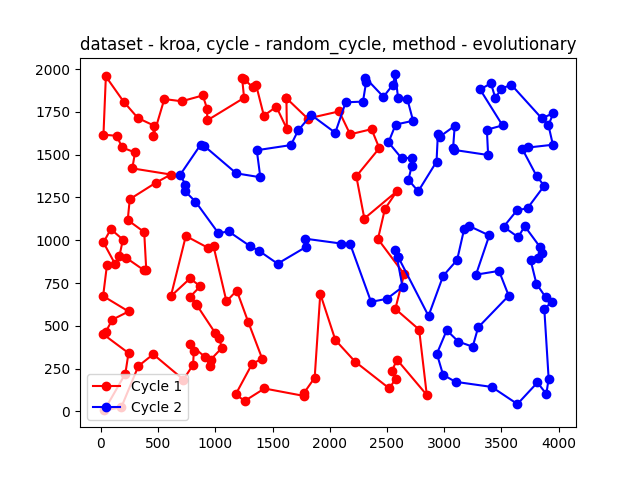
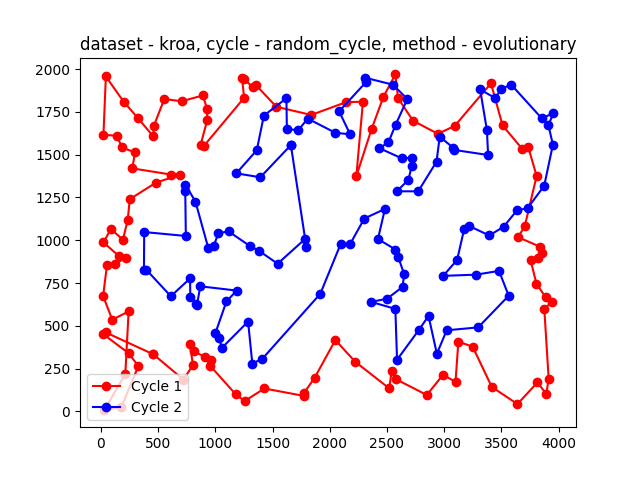
fixes

diff --git a/imo_5.py b/imo_5.py
@@ -158,11 +158,9 @@ def regret_fix(tours,unvisited):
     while len(unvisited) > 0:
         tour = tours[0] if len(tours[0]) < len(tours[1]) else tours[1]
         regrets = []
-        if len(unvisited) == 1:
-            regrets = [(0,unvisited[0])]
         if len(tour) == 0:
             start_idx = random.sample(unvisited, k= 1)
-            tour = [unvisited.pop(start_idx)]
+            tour = [unvisited.pop(start_idx[0])]
         if len(tour) == 1:
             nearest_to_first_1 = [cities[tour[0]][j] for j in unvisited]
             tour.append(unvisited.pop(np.argmin(nearest_to_first_1)))
@@ -170,25 +168,28 @@ def regret_fix(tours,unvisited):
             nearest_to_tour_1 = [cities[tour[0]][j] + cities[tour[1]][j] for j in unvisited]
             tour.append(unvisited.pop(np.argmin(nearest_to_tour_1)))
         else:
-            for city in unvisited:
-                distances = [cities[tour[i]][city] + cities[city][tour[i+1]] - cities[tour[i]][tour[i+1]] for i in range(len(tour)-1)]
-                distances.append(cities[tour[0]][city] + cities[city][tour[-1]] - cities[tour[-1]][tour[0]])
-                distances.sort()
-                regret = distances[1] - distances[0]
-                regret -= 0.37 * distances[0]
-                regrets.append((regret, city))
+            if len(unvisited) == 1:
+                regrets = [(0,unvisited[0])]
+            else:
+                for city in unvisited:
+                    distances = [cities[tour[i]][city] + cities[city][tour[i+1]] - cities[tour[i]][tour[i+1]] for i in range(len(tour)-1)]
+                    distances.append(cities[tour[0]][city] + cities[city][tour[-1]] - cities[tour[-1]][tour[0]])
+                    distances.sort()
+                    regret = distances[1] - distances[0]
+                    regret -= 0.37 * distances[0]
+                    regrets.append((regret, city))
             regrets.sort(reverse=True)
-        best_city = regrets[0][1]
-        tour_distances = [cities[tour[i]][tour[i+1]] for i in range(len(tour)-1)]
-        best_increase = float('inf')
-        best_index = -1
-        for i in range(len(tour_distances)):
-            increase = cities[best_city][tour[i]] + cities[best_city][tour[i+1]] - tour_distances[i]
-            if increase < best_increase:
-                best_increase = increase
-                best_index = i + 1
-        tour.insert(best_index, best_city)
-        unvisited.remove(best_city)
+            best_city = regrets[0][1]
+            tour_distances = [cities[tour[i]][tour[i+1]] for i in range(len(tour)-1)]
+            best_increase = float('inf')
+            best_index = -1
+            for i in range(len(tour_distances)):
+                increase = cities[best_city][tour[i]] + cities[best_city][tour[i+1]] - tour_distances[i]
+                if increase < best_increase:
+                    best_increase = increase
+                    best_index = i + 1
+            tour.insert(best_index, best_city)
+            unvisited.remove(best_city)
     return [tours[0],tours[1]]
 
 class Steepest(object):
@@ -700,10 +701,10 @@ for file in ['kroa','krob']:
     coords = pd.read_csv(file, sep=' ')
     positions=np.array([coords['x'], coords['y']]).T
     cities = np.round(pairwise_distances(np.array(positions)))
-    variants = [Evolutionary(cities,file)]
+    variants = [Evolutionary(cities,file),Evolutionary_local_search(cities,file)]
     #variants = [MSLS(cities),ILS1(cities),ILS2(cities)]
     for solve in [random_cycle]:
-        solutions = list(map(solve, [(cities, i) for i in range(1)]))
+        solutions = list(map(solve, [(cities, i) for i in range(10)]))
         scores = [score(cities, x) for x in solutions]
         score_results.append(dict(file=file, function=solve.__name__, search="none", min=int(min(scores)), mean=int(np.mean(scores)), max=int(max(scores))))
         best_idx = np.argmin(scores)
